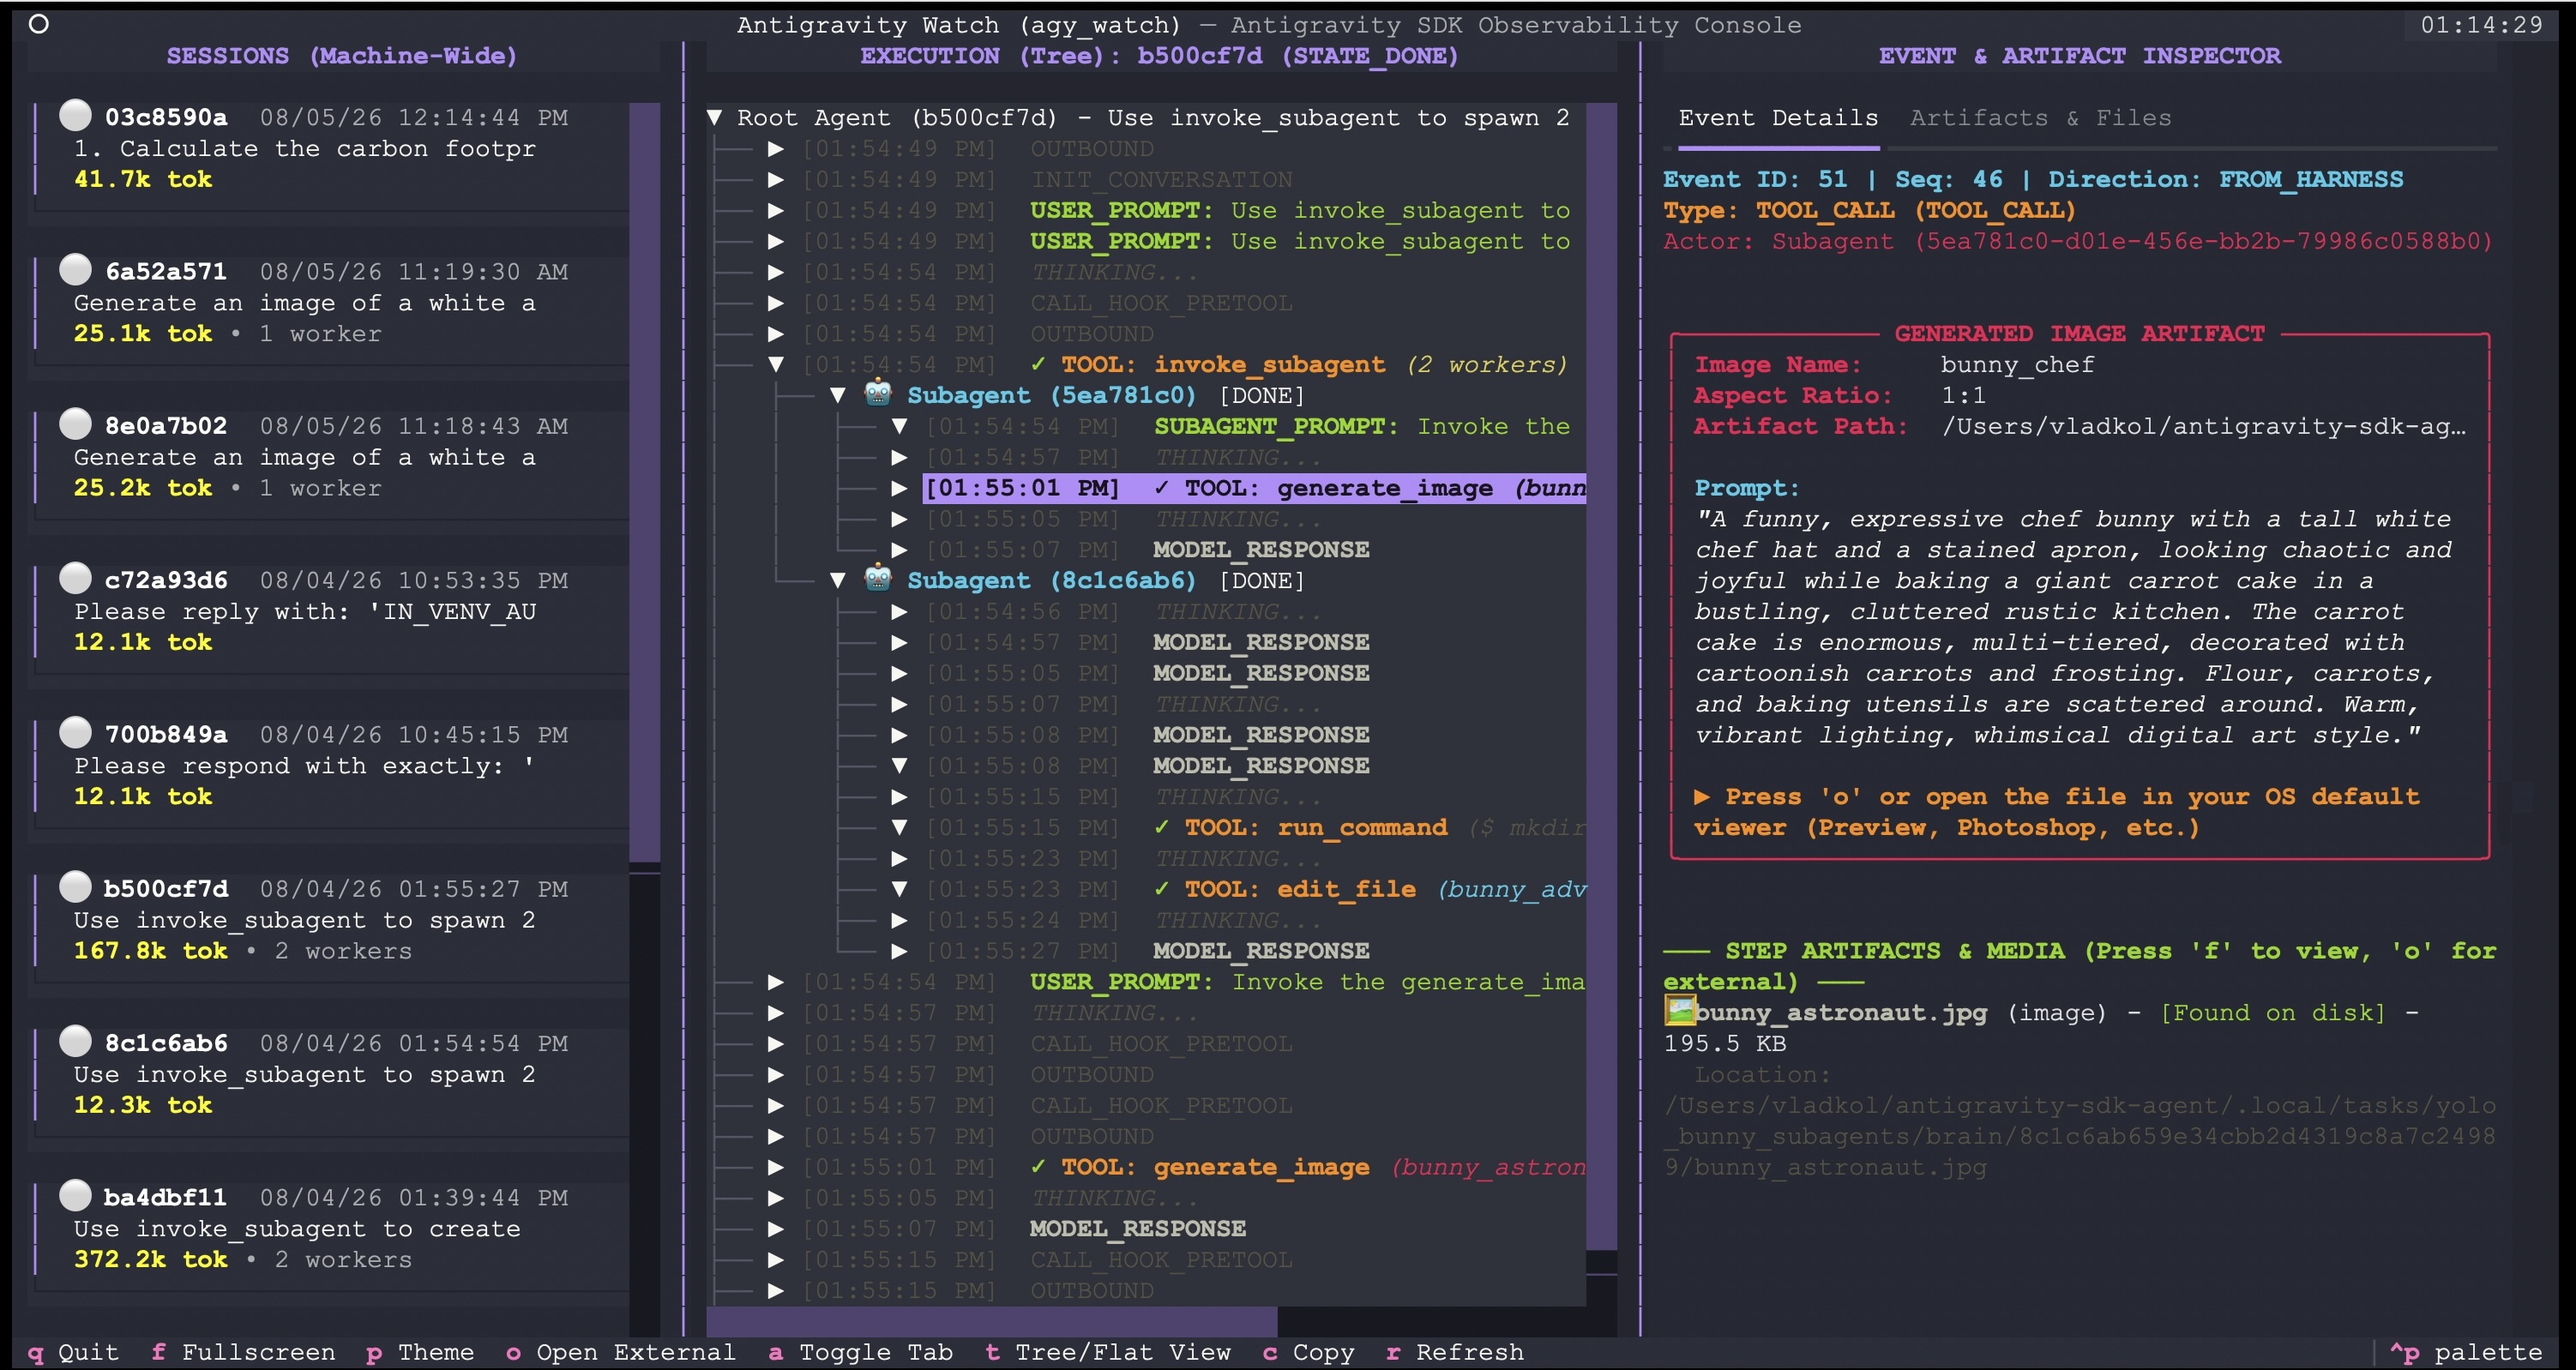
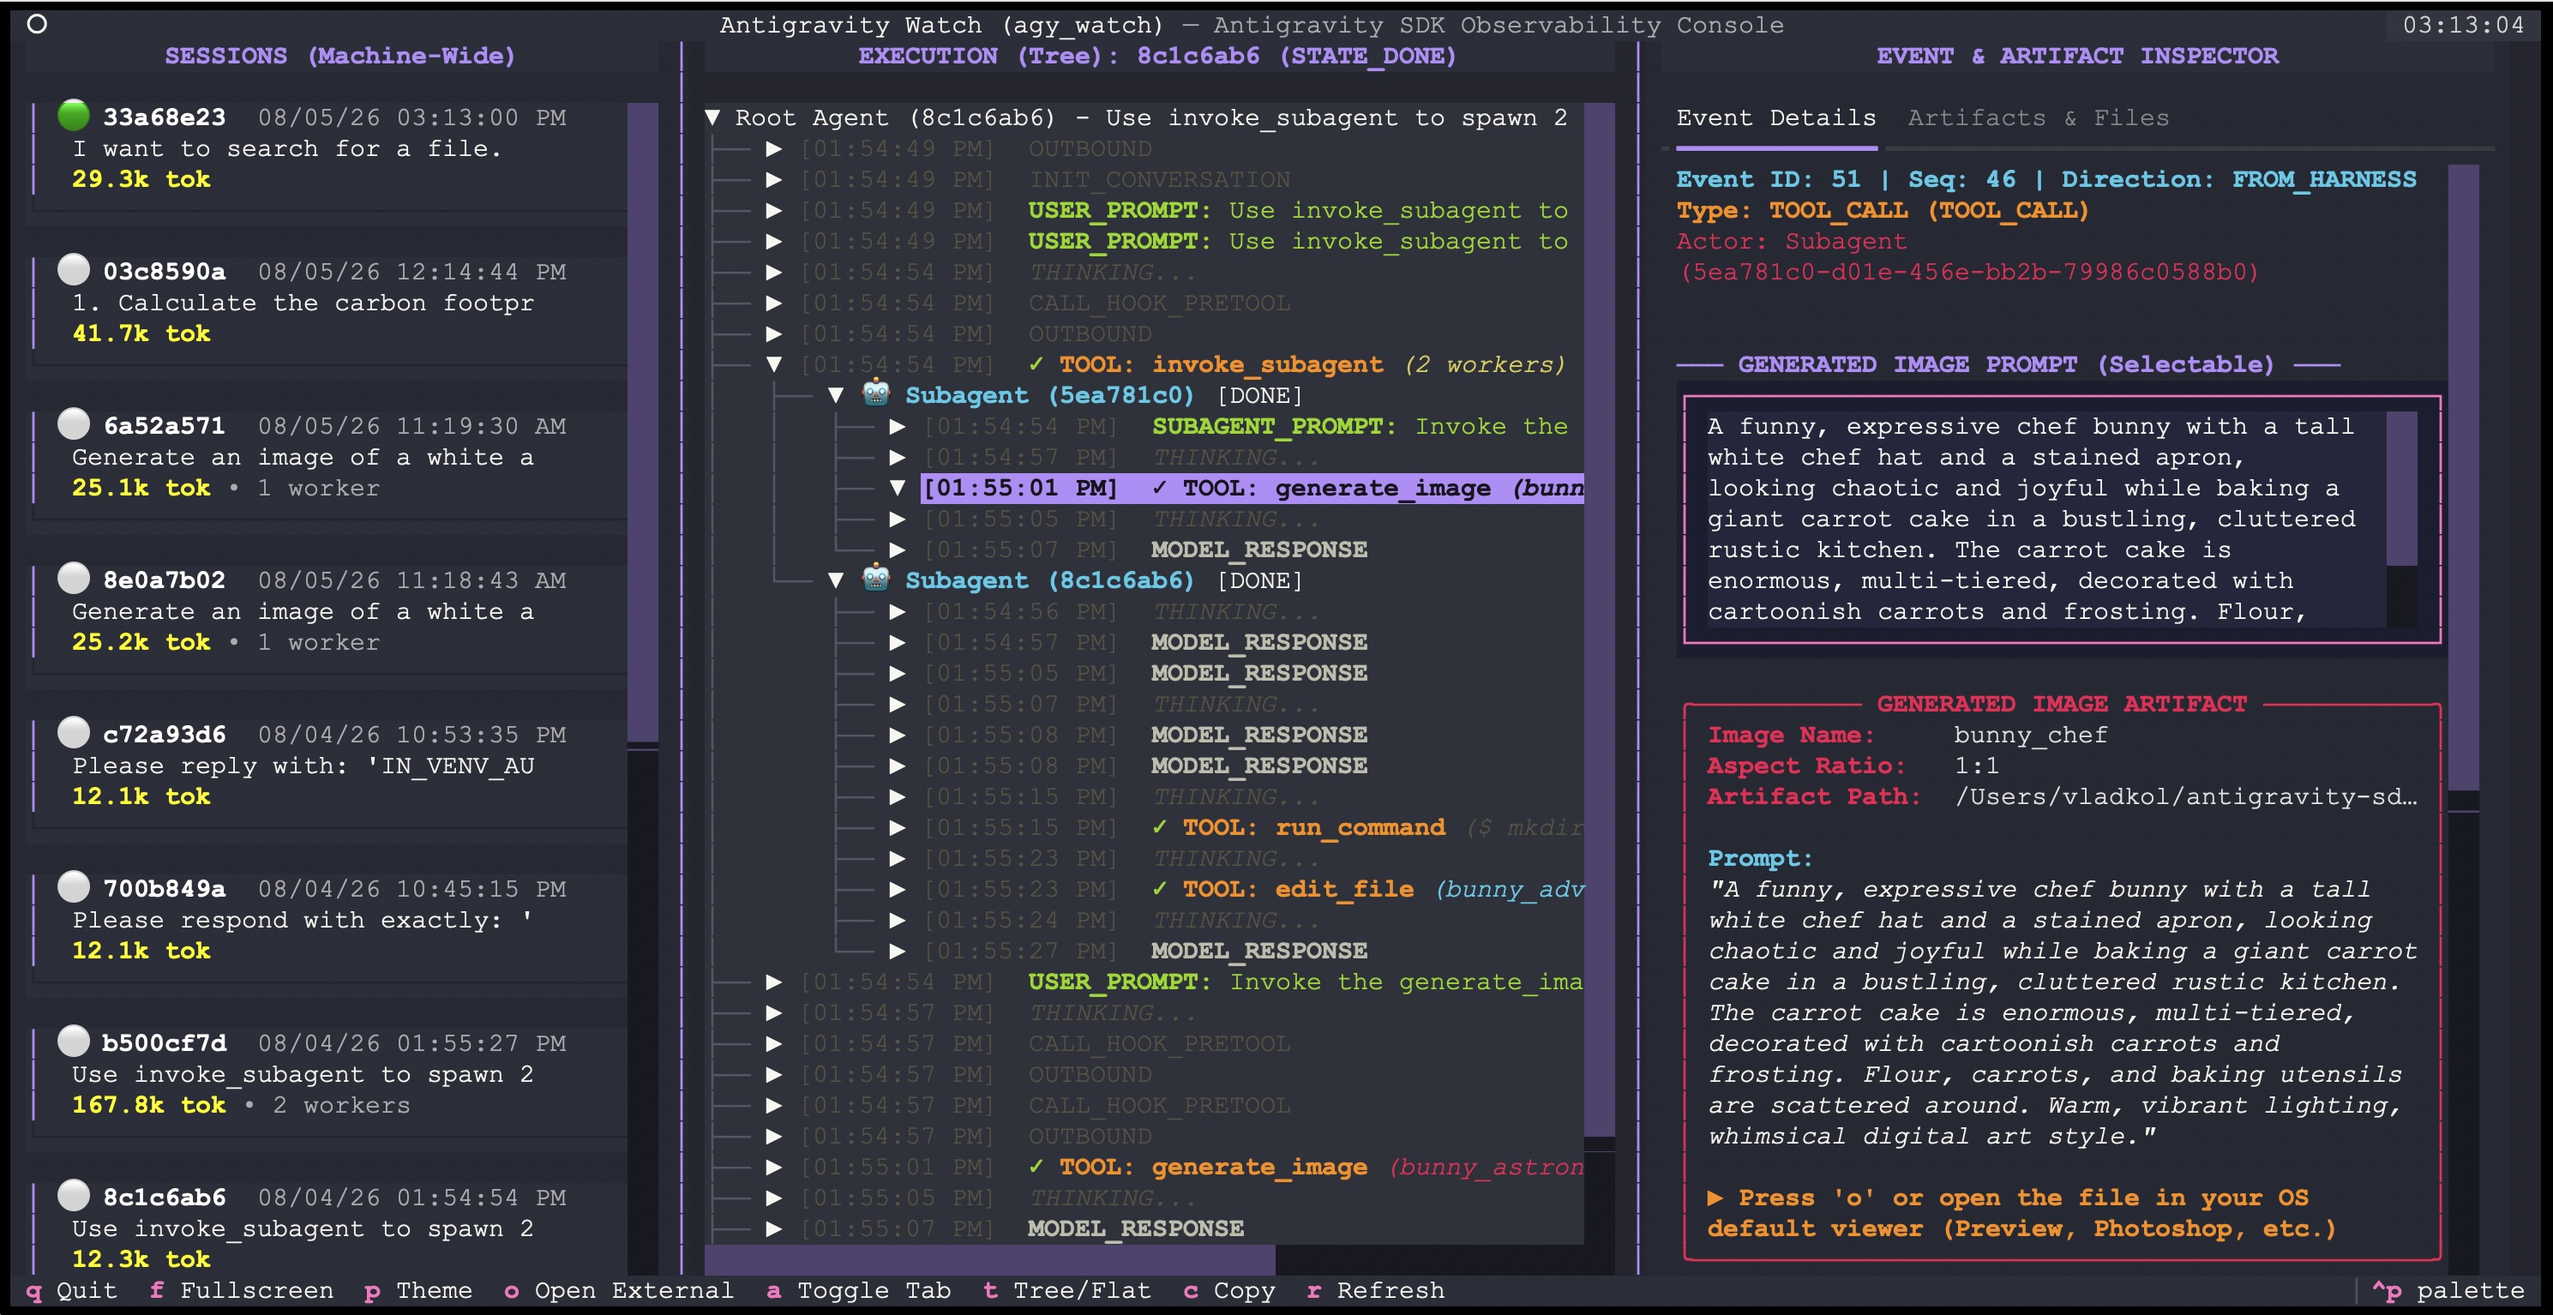
formatting fix

diff --git a/agy_watch/tui.py b/agy_watch/tui.py
@@ -62,11 +62,11 @@ def open_media_file_cross_platform(file_path: str) -> bool:
         return False
 
 
-def _guess_syntax_language(file_name: str) -> str:
+def get_syntax_lexer_for_path(file_path: str) -> str:
     """Infers Textual/Rich syntax language identifier from filename extension."""
-    if not file_name:
+    if not file_path:
         return "text"
-    _, ext = os.path.splitext(file_name.lower())
+    _, ext = os.path.splitext(file_path.lower())
     mapping = {
         ".py": "python",
         ".json": "json",
@@ -89,8 +89,12 @@ def _guess_syntax_language(file_name: str) -> str:
         ".cpp": "cpp",
         ".c": "c",
         ".java": "java",
+        ".txt": "text",
     }
     return mapping.get(ext, "text")
+
+
+_guess_syntax_language = get_syntax_lexer_for_path
 
 
 def _calculate_wrapped_height(text: str, pane_width: int = 65, min_h: int = 6, max_h: int = 35) -> int:
@@ -922,28 +926,7 @@ class AgyWatchApp(App):
         else:
             tok_area.display = False
 
-        # Dynamically show/hide Artifacts & Files tab based on event artifacts
-        try:
-            tab_artifacts = self.query_one("#tab-artifacts", TabPane)
-            event_artifacts = ev.get("artifacts") or []
-            has_artifacts = bool(event_artifacts)
-            tab_artifacts.display = has_artifacts
-
-            if has_artifacts:
-                art_list = self.query_one("#artifacts-list", ListView)
-                art_list.clear()
-                for art in event_artifacts:
-                    self._add_artifact_to_list(art)
-                if event_artifacts:
-                    first_art = event_artifacts[0]["path"]
-                    self.selected_artifact_path = first_art
-                    self._render_artifact_preview(first_art)
-            else:
-                tabs = self.query_one("#inspector-tabs", TabbedContent)
-                if tabs.active == "tab-artifacts":
-                    tabs.active = "tab-details"
-        except Exception:
-            pass
+        # Event details rendering complete
 
     async def on_list_view_selected(self, event: ListView.Selected) -> None:
         """Handles list view selections from Sessions or Artifacts lists."""
@@ -1021,13 +1004,8 @@ class AgyWatchApp(App):
             self.poll_live_updates()
 
     def action_toggle_inspector_tab(self) -> None:
-        """Toggles active inspector tab between Event Details and Artifacts & Files if available."""
+        """Toggles active inspector tab between Event Details and Artifacts & Files."""
         try:
-            tab_artifacts = self.query_one("#tab-artifacts", TabPane)
-            if not tab_artifacts.display:
-                self.notify("This event has no artifacts or files.", severity="information")
-                return
-
             tabs = self.query_one("#inspector-tabs", TabbedContent)
             if tabs.active == "tab-details":
                 tabs.active = "tab-artifacts"

diff --git a/tests/test_cli_watch.py b/tests/test_cli_watch.py
@@ -455,12 +455,9 @@ async def test_tui_app_settings_restoration():
             tabs = app.query_one("#inspector-tabs", TabbedContent)
             assert tabs.active == "tab-details"
 
-            # Artifacts tab is hidden when no artifacts exist for the selected event
-            from textual.widgets import TabPane
-            tab_artifacts = app.query_one("#tab-artifacts", TabPane)
-            assert tab_artifacts.display is False
-
-            # Pressing 'a' keeps tab-details when tab-artifacts is hidden
+            # Pressing 'a' toggles between tab-details and tab-artifacts
+            await pilot.press("a")
+            assert tabs.active == "tab-artifacts"
             await pilot.press("a")
             assert tabs.active == "tab-details"
 
